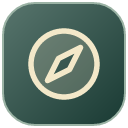
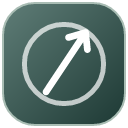
feat: use the contri. symbol and wordmark across the extension
Replace the compass with the website's arrow-in-circle symbol in the toolbar
icons, launcher, widget header, GitHub badges and settings. Add the website
link to the manifest (homepage_url) and Settings.

diff --git a/src/content/badges.ts b/src/content/badges.ts
@@ -23,7 +23,7 @@ button{all:unset;cursor:pointer;display:inline-flex;align-items:center;gap:7px;p
 :host([data-theme=dark]) button{border-color:#ffffff3d;background:linear-gradient(145deg,#2a3f3ff2,#1c2e2cf5 58%,#243328f2);box-shadow:0 4px 14px #0000004d,inset 0 1px 0 #ffffff22}
 button:hover{filter:brightness(1.08)}
 button:focus-visible{outline:2px solid #fce9b6;outline-offset:2px}
-.brand{font-size:9px;letter-spacing:1.6px;font-weight:600;opacity:.85}
+.brand{display:inline-flex;align-items:center;gap:4px;font-weight:600;letter-spacing:-.04em;font-size:13px;padding-right:7px;margin-right:1px;border-right:1px solid #ffffff38}.brand svg{width:15px;height:15px;flex:none}
 .dot{width:8px;height:8px;border-radius:50%;flex:none;background:#d4e2da}
 .good .dot{background:#8fd6a8}.warn .dot{background:#f2cf7c}.busy .dot{background:#f0a08e}.unknown .dot{background:#cfd8d2}
 .label{font-weight:600;white-space:nowrap;overflow:hidden;text-overflow:ellipsis}
@@ -61,10 +61,46 @@ function render(
     el.textContent = text;
     button.append(el);
   };
+  button.append(brand());
   add(parts.loading ? 'spin' : 'dot');
-  add('brand', 'CONTRI');
   add('label', parts.label);
   if (parts.detail) add('muted', parts.detail);
+}
+
+const SVG = 'http://www.w3.org/2000/svg';
+
+/** The contri. symbol + wordmark, built with DOM APIs (no innerHTML on GitHub pages). */
+function brand() {
+  const wrap = document.createElement('span');
+  wrap.className = 'brand';
+  const svg = document.createElementNS(SVG, 'svg');
+  svg.setAttribute('viewBox', '0 0 100 100');
+  svg.setAttribute('fill', 'none');
+  svg.setAttribute('aria-hidden', 'true');
+  const circle = document.createElementNS(SVG, 'circle');
+  for (const [k, v] of Object.entries({
+    cx: '50',
+    cy: '50',
+    r: '44',
+    stroke: 'currentColor',
+    'stroke-opacity': '.62',
+    'stroke-width': '7',
+  }))
+    circle.setAttribute(k, v);
+  const arrow = document.createElementNS(SVG, 'path');
+  for (const [k, v] of Object.entries({
+    d: 'M30 81 74 15M55 20.5l19-5.5 2 19',
+    stroke: 'currentColor',
+    'stroke-width': '9',
+    'stroke-linecap': 'round',
+    'stroke-linejoin': 'round',
+  }))
+    arrow.setAttribute(k, v);
+  svg.append(circle, arrow);
+  const text = document.createElement('span');
+  text.textContent = 'contri.';
+  wrap.append(svg, text);
+  return wrap;
 }
 
 const openWidget = () => window.dispatchEvent(new CustomEvent(OPEN_EVENT));
@@ -171,7 +207,7 @@ function repoBadge(repo: string, settings: Settings) {
       tone: recent === null ? undefined : recent > 0 ? 'good' : 'warn',
       label: parts[0],
       detail: parts[1],
-      title: 'Open CONTRI for details',
+      title: 'Open contri. for details',
     });
   })();
 }

diff --git a/src/content/ui/icons.tsx b/src/content/ui/icons.tsx
@@ -23,12 +23,37 @@ function Icon({ size = 16, children, ...rest }: IconProps & { children: ReactNod
   );
 }
 
-export const CompassIcon = (p: IconProps) => (
-  <Icon {...p}>
-    <circle cx="12" cy="12" r="9" />
-    <path d="m15.5 8.5-2.2 4.8-4.8 2.2 2.2-4.8z" fill="currentColor" fillOpacity={0.25} />
-  </Icon>
-);
+/**
+ * The contri. symbol: an arrow rising out of a circle (same mark as the website).
+ * Geometry is shared with scripts/icons.mjs.
+ */
+export function LogoMark({ size = 20, ...rest }: IconProps) {
+  return (
+    <svg width={size} height={size} viewBox="0 0 100 100" fill="none" aria-hidden="true" focusable="false" {...rest}>
+      <circle cx="50" cy="50" r="44" stroke="currentColor" strokeOpacity="0.62" strokeWidth="5" />
+      <path
+        d="M30 81 74 15M55 20.5l19-5.5 2 19"
+        stroke="currentColor"
+        strokeWidth="6.5"
+        strokeLinecap="round"
+        strokeLinejoin="round"
+      />
+    </svg>
+  );
+}
+
+/** Symbol + "contri." wordmark, as on the website. */
+export function Wordmark({ size = 20 }: { size?: number }) {
+  return (
+    <span className="cc-wordmark" style={{ fontSize: size }}>
+      <LogoMark size={Math.round(size * 1.05)} />
+      <span>
+        contri<span className="cc-wordmark-dot">.</span>
+      </span>
+    </span>
+  );
+}
+
 export const ExternalIcon = (p: IconProps) => (
   <Icon {...p}>
     <path d="M14 4h6v6M20 4l-9 9M18 14v5a1 1 0 0 1-1 1H5a1 1 0 0 1-1-1V7a1 1 0 0 1 1-1h5" />

diff --git a/src/settings/Settings.tsx b/src/settings/Settings.tsx
@@ -2,8 +2,8 @@ import { useEffect, useRef, useState, type FormEvent } from 'react';
 import { createRoot } from 'react-dom/client';
 import type { DeviceStart } from '../background/auth';
 import { call, type ConnectionInfo, type Prefs } from '../shared/protocol';
-import { REPO_URL } from '../shared/config';
-import { CompassIcon } from '../content/ui/icons';
+import { REPO_URL, WEBSITE_URL } from '../shared/config';
+import { Wordmark } from '../content/ui/icons';
 import '../content/widget.css';
 import './settings.css';
 
@@ -199,8 +199,10 @@ function Settings() {
   return (
     <main className="cc-settings">
       <header>
-        <CompassIcon size={26} />
-        CONTRI
+        <Wordmark size={26} />
+        <a className="cc-site" href={WEBSITE_URL} target="_blank" rel="noreferrer">
+          contri-two.vercel.app ↗
+        </a>
       </header>
       <h1>
         {status?.connected ? 'You’re connected.' : welcome.current ? 'Welcome to CONTRI.' : 'A clearer connection.'}
@@ -283,6 +285,10 @@ function Settings() {
         )}
         <p className="cc-small">
           Public repositories only · no analytics · no backend · AI summaries run on your device.{' '}
+          <a href={WEBSITE_URL} target="_blank" rel="noreferrer">
+            Website ↗
+          </a>{' '}
+          ·{' '}
           <a href={`${REPO_URL}/blob/main/PRIVACY.md`} target="_blank" rel="noreferrer">
             Privacy details ↗
           </a>{' '}

diff --git a/src/content/widget.css b/src/content/widget.css
@@ -110,16 +110,6 @@ select {
   border-bottom: 1px solid var(--line);
   background: #ffffff0b;
 }
-.cc-header > span {
-  font-size: 8px;
-  letter-spacing: 1.5px;
-  line-height: 1.35;
-}
-.cc-header > span b {
-  font-weight: 600;
-  font-size: 10px;
-  letter-spacing: 2px;
-}
 .cc-drag {
   touch-action: none;
   cursor: grab !important;
@@ -851,6 +841,34 @@ select {
 }
 :host([data-theme='dark']) .cc-search {
   background: #e6ede4f0;
+}
+
+/* ---------- Brand: contri. symbol + wordmark (matches the website) ---------- */
+.cc-wordmark {
+  display: inline-flex;
+  align-items: center;
+  gap: 0.38em;
+  font-weight: 600;
+  letter-spacing: -0.055em;
+  line-height: 1;
+  color: #fff;
+}
+.cc-wordmark svg {
+  flex: none;
+}
+.cc-wordmark-dot {
+  margin-left: 0.16em;
+}
+.cc-header .cc-wordmark {
+  margin-left: 2px;
+}
+.cc-settings header {
+  justify-content: space-between;
+}
+.cc-settings .cc-site {
+  font-size: 12px;
+  letter-spacing: 0;
+  opacity: 0.85;
 }
 
 /* ---------- Shared bits added in 0.3 (same palette) ---------- */

diff --git a/src/content/ui/App.tsx b/src/content/ui/App.tsx
@@ -7,7 +7,7 @@ import { DiscoverTab } from './DiscoverTab';
 import { GlassEffect } from './GlassEffect';
 import { GuideTab } from './GuideTab';
 import { useRequest } from './hooks';
-import { ArrowIcon, CheckIcon, CloseIcon, CompassIcon, GearIcon, GripIcon, MinusIcon } from './icons';
+import { ArrowIcon, CheckIcon, CloseIcon, GearIcon, GripIcon, MinusIcon, Wordmark } from './icons';
 import { IssuesTab } from './IssuesTab';
 import { OverviewTab } from './OverviewTab';
 import { SavedTab } from './SavedTab';
@@ -98,12 +98,7 @@ export function App({ page, onMinimize, onClose, onPositionReset, onDrag, onMove
         >
           <GripIcon size={17} />
         </button>
-        <CompassIcon size={21} />
-        <span>
-          <b>CONTRI</b>
-          <br />
-          OPEN SOURCE COMPASS
-        </span>
+        <Wordmark size={18} />
         <div className="cc-header-actions">
           <button aria-label="Settings and GitHub sign-in" onClick={openSettings}>
             <GearIcon size={16} />

diff --git a/src/content/index.tsx b/src/content/index.tsx
@@ -3,7 +3,7 @@ import { useCallback, useEffect, useState, type PointerEvent as ReactPointerEven
 import { parsePage, type PageContext } from '../shared/repo';
 import { call, DEFAULT_PREFS, type Prefs } from '../shared/protocol';
 import { App } from './ui/App';
-import { CompassIcon } from './ui/icons';
+import { LogoMark } from './ui/icons';
 import { installFonts } from './fonts';
 import { onNavigate } from './navigation';
 import { watchTheme } from './theme';
@@ -152,7 +152,7 @@ function boot() {
           title="CONTRI — open source compass"
           onClick={() => setMode('open')}
         >
-          <CompassIcon size={26} />
+          <LogoMark size={26} />
         </button>
       );
     return (

diff --git a/tests/e2e/extension.spec.ts b/tests/e2e/extension.spec.ts
@@ -71,7 +71,7 @@ test('repository sidebar badge sits inside GitHub’s About box', async ({ conte
   await page.goto('https://github.com/acme/widgets');
   const badge = page.locator('.BorderGrid-cell #contri-repo-badge');
   await expect(badge).toBeVisible();
-  await expect(badge.locator('button')).toContainText('CONTRI');
+  await expect(badge.locator('button')).toContainText('contri.');
 });
 
 test('issue badge checks availability on click and finds a stale claim', async ({ context, extensionId, mock }) => {

diff --git a/src/shared/config.ts b/src/shared/config.ts
@@ -9,3 +9,4 @@ export const GITHUB_CLIENT_ID: string = (import.meta.env?.VITE_GITHUB_CLIENT_ID 
 
 export const PRODUCT = 'CONTRI';
 export const REPO_URL = 'https://github.com/alphasafal/contri';
+export const WEBSITE_URL = 'https://contri-two.vercel.app';

diff --git a/THIRD_PARTY_NOTICES.md b/THIRD_PARTY_NOTICES.md
@@ -7,8 +7,7 @@ Shipped in the extension:
 - **Preact** (React-compatible UI runtime): MIT, Jason Miller and contributors.
 - **DM Sans**: SIL Open Font License 1.1, Colophon Foundry and contributors.
 - **Libre Caslon Display**: SIL Open Font License 1.1, Impallari Type and contributors.
-- **Phosphor Icons** (compass glyph in the extension icon PNGs): MIT, Phosphor Icons.
 
 Development only (not shipped): TypeScript (Apache 2.0), Vite, Vitest, Playwright (Apache 2.0), ESLint, Prettier, fflate and resvg-js (MIT). Exact versions are in `package-lock.json`.
 
-Interface icons are original inline SVGs. The website's atmosphere image is original generated artwork; no third-party artwork, logos or testimonials are bundled.
+The contri. symbol, extension icons and interface icons are original artwork. The website's atmosphere image is original generated artwork; no third-party artwork, logos or testimonials are bundled.
